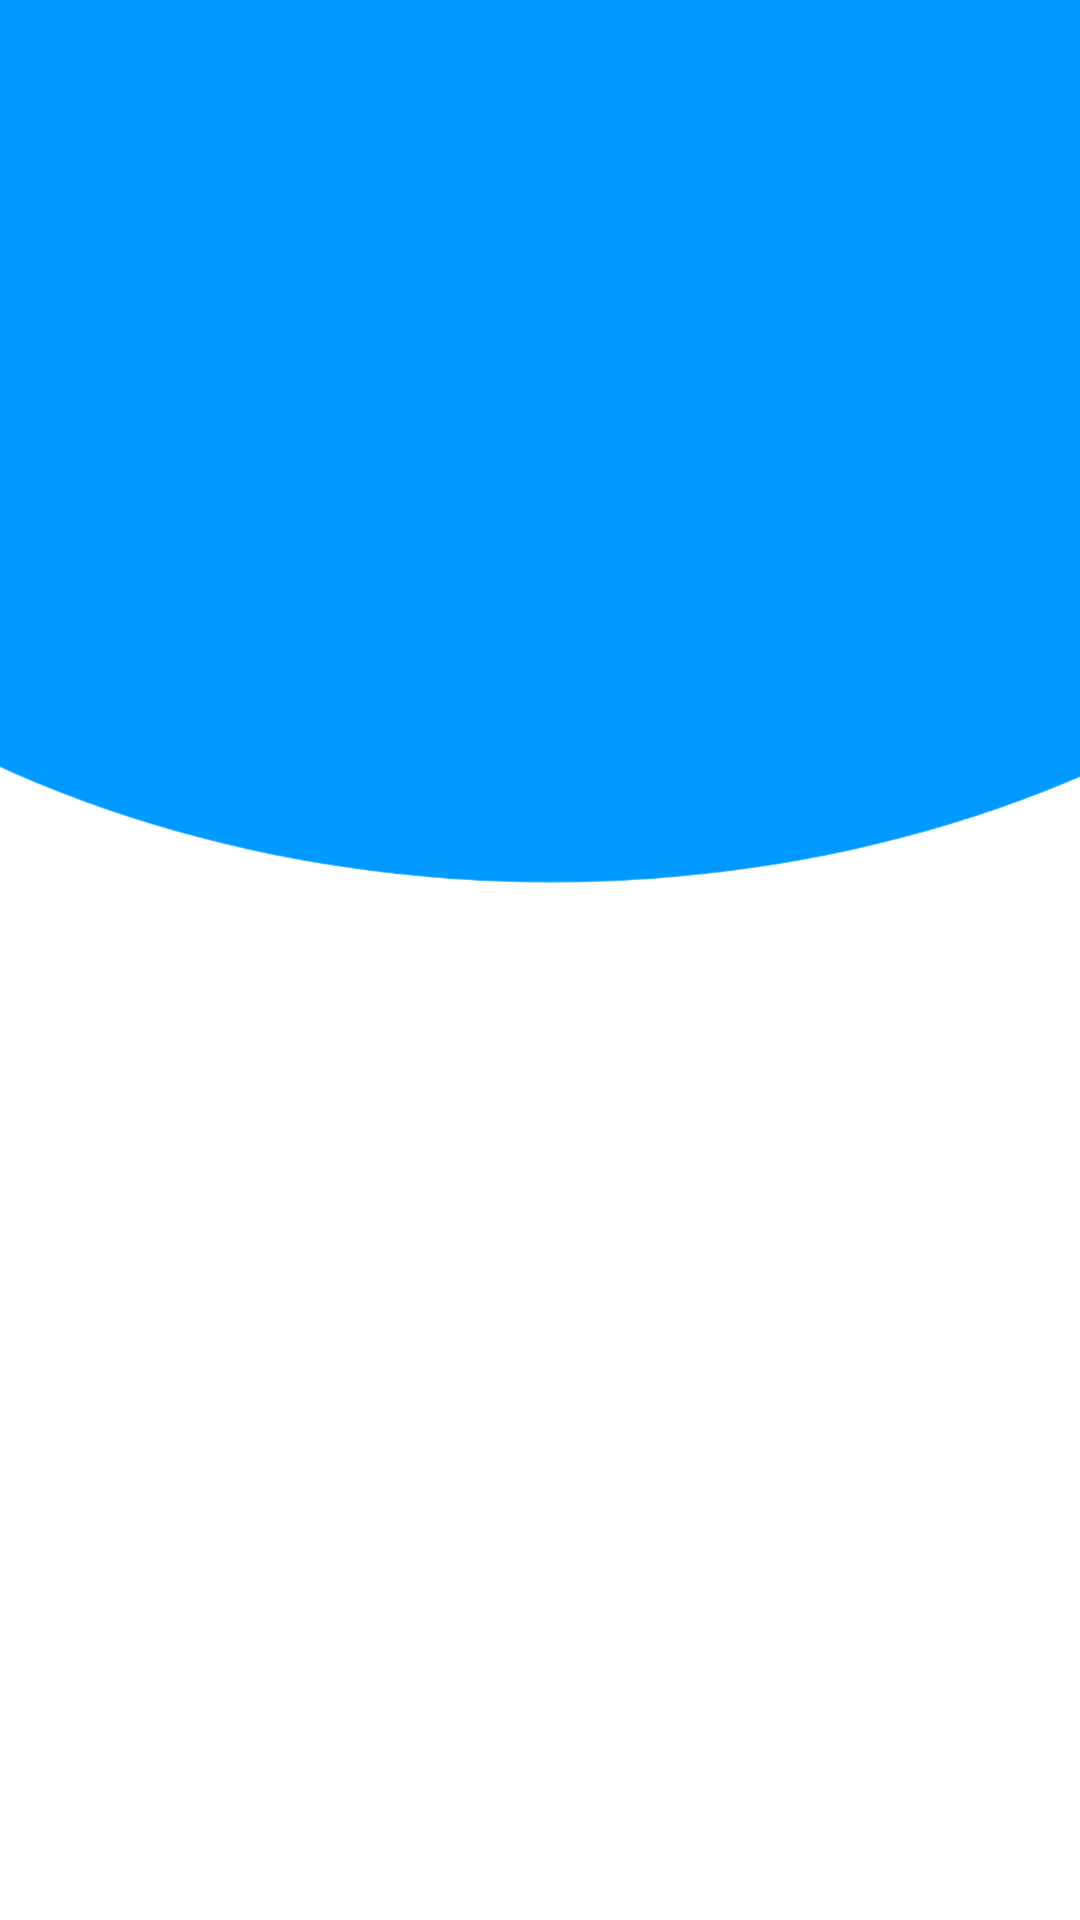
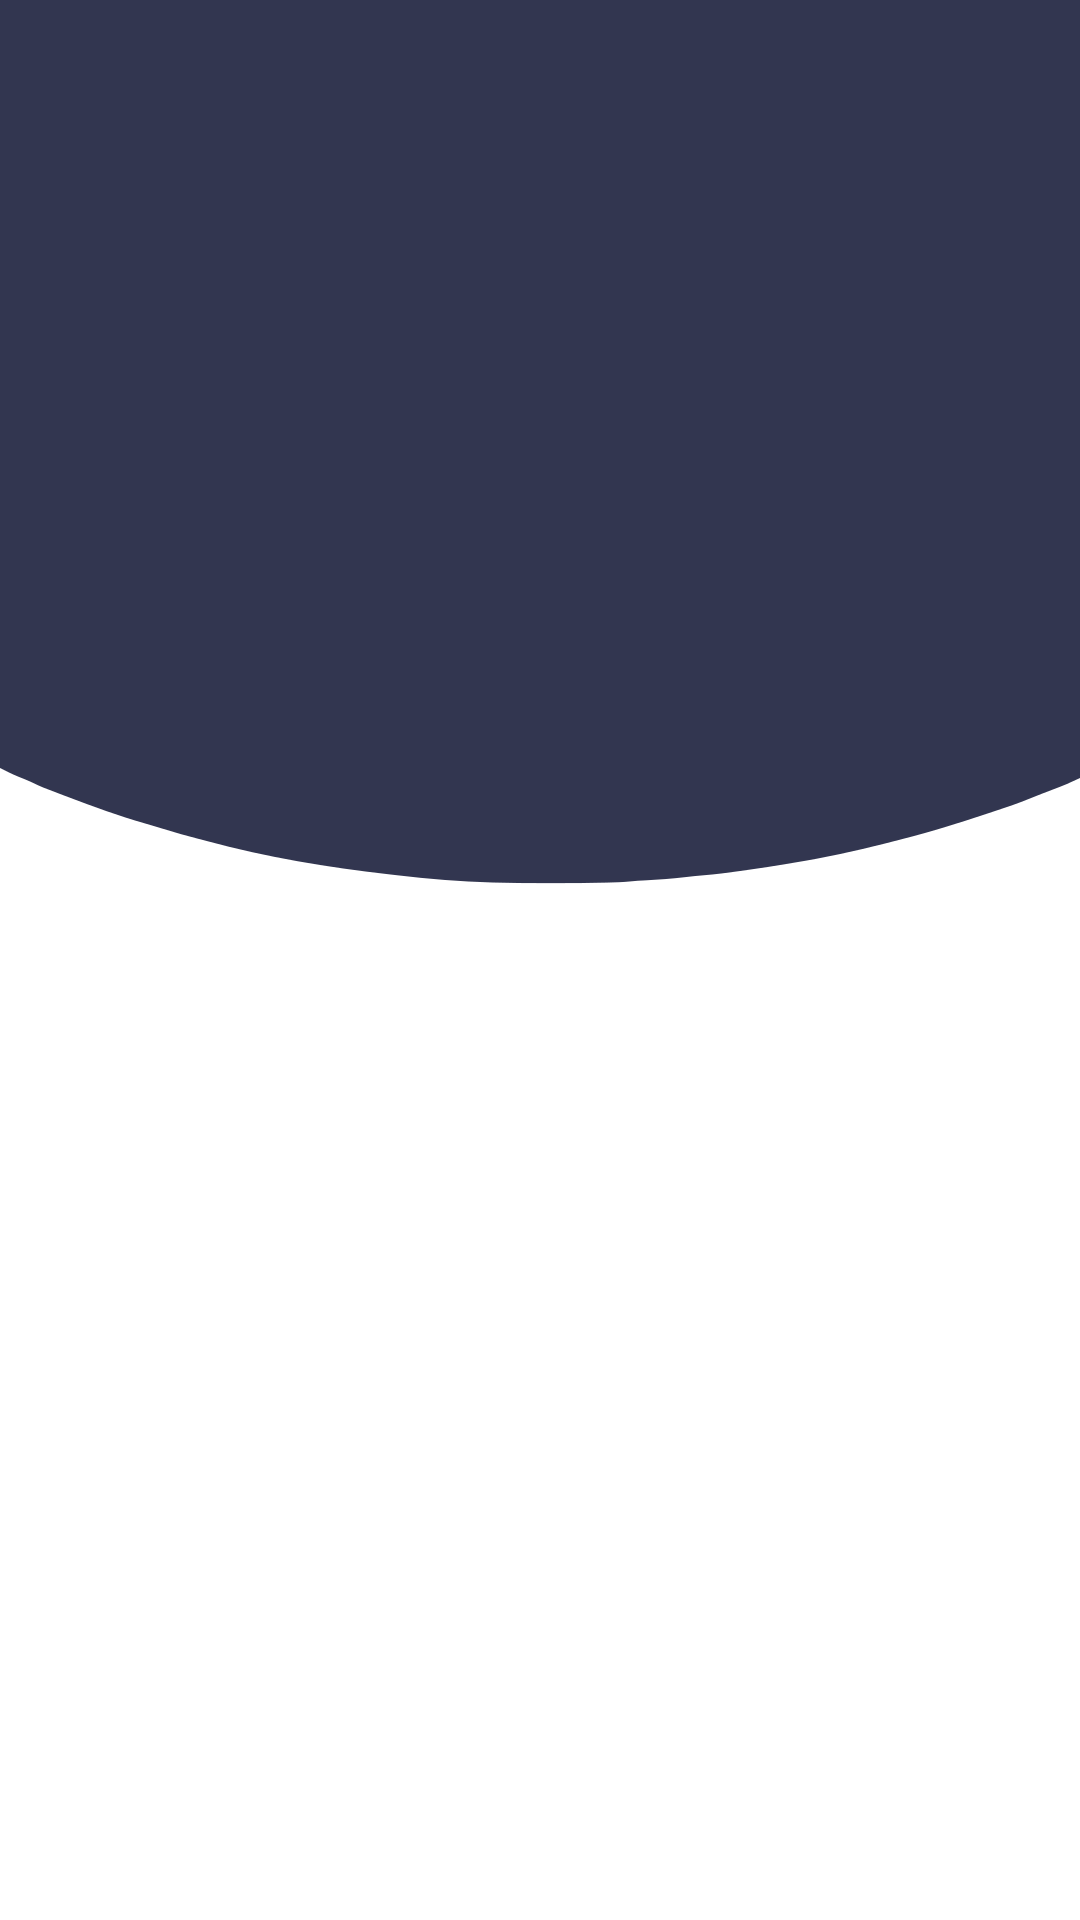
contact.tsx

diff --git a/src/screens/auth/SignUp.tsx b/src/screens/auth/SignUp.tsx
@@ -1,5 +1,5 @@
-import { StatusBar } from "expo-status-bar"
-import React, { useEffect, useState } from "react"
+import { StatusBar } from "expo-status-bar";
+import React, { useEffect, useState } from "react";
 import {
     View,
     Text,
@@ -10,70 +10,72 @@ import {
     Platform,
     ScrollView,
     GestureResponderEvent,
-} from "react-native"
+} from "react-native";
 import Animated, {
     FadeIn,
     FadeInDown,
     FadeInUp,
     FadeOut,
-} from "react-native-reanimated"
+} from "react-native-reanimated";
 
 // Navigation
-import { NativeStackScreenProps } from "@react-navigation/native-stack"
-import { RootStackParamList } from "../../navigation/Router"
+import { NativeStackScreenProps } from "@react-navigation/native-stack";
+import { RootStackParamList } from "../../navigation/Router";
 // types
-import { EmailData, SignUpInput } from "../../types"
+import { EmailData, SignUpInput } from "../../types";
 // import {Env} from "../../types/env"
 //functions
-import { sendEmail } from "../../functions"
+import { sendEmail } from "../../functions";
+// assets
+import { wavebg } from "../../assets";
 
-type SignUpProps = NativeStackScreenProps<RootStackParamList, "SignUp">
+type SignUpProps = NativeStackScreenProps<RootStackParamList, "SignUp">;
 
 // const service_id =process.env.EMAIL_JS_SERVICE_ID || Env.EMAIL_JS_SERVICE_ID
-const service_id = "service_18nvoaw"
-const template_id = "template_hrxbnbj"
-const user_id = "auihK9lT1-3yCjdUP"
-const accessToken = "Rd2BTbINaktS1Iux6JSwl"
+const service_id = "service_18nvoaw";
+const template_id = "template_hrxbnbj";
+const user_id = "auihK9lT1-3yCjdUP";
+const accessToken = "Rd2BTbINaktS1Iux6JSwl";
 
 const SignUp = ({ navigation }: SignUpProps) => {
-    const [username, setUserName] = useState<string>("")
-    const [email, setEmail] = useState<string>("")
-    const [password, setPassword] = useState<any>("")
+    const [username, setUserName] = useState<string>("");
+    const [email, setEmail] = useState<string>("");
+    const [password, setPassword] = useState<any>("");
 
     const [inputValues, setInputValues] = useState<SignUpInput>({
         username: "",
         email: "",
         password: "",
         verificationCode: "",
-    })
+    });
 
     // Random Code for verification.
-    const [verificationCode, setVerificationCode] = useState<string>("")
+    const [verificationCode, setVerificationCode] = useState<string>("");
 
     const generateVerificationCode = () => {
         const chars =
-            "ABCDEFGHIJKLMNOPQRSTUVWXYZabcdefghijklmnopqrstuvwxyz1234567890"
-        let result = ""
-        const charslength = chars.length
+            "ABCDEFGHIJKLMNOPQRSTUVWXYZabcdefghijklmnopqrstuvwxyz1234567890";
+        let result = "";
+        const charslength = chars.length;
         for (let i = 0; i < 6; i++) {
-            result += chars.charAt(Math.floor(Math.random() * charslength))
+            result += chars.charAt(Math.floor(Math.random() * charslength));
         }
 
-        setVerificationCode(result)
-    }
+        setVerificationCode(result);
+    };
 
     useEffect(() => {
-        generateVerificationCode()
-    }, [])
+        generateVerificationCode();
+    }, []);
 
     const handleSubmit = (e: GestureResponderEvent) => {
-        e.preventDefault()
+        e.preventDefault();
         setInputValues({
             username: username,
             email: email,
             password: password,
             verificationCode: verificationCode,
-        })
+        });
 
         const emailData: EmailData = {
             service_id: service_id,
@@ -85,25 +87,25 @@ const SignUp = ({ navigation }: SignUpProps) => {
                 user_email: email,
                 verificationCode: verificationCode,
             },
-        }
+        };
 
-        sendEmail(emailData)
+        sendEmail(emailData);
 
         navigation.navigate("EmailVerification", {
             username,
             email,
             password,
             verificationCode,
-        })
+        });
 
-        setUserName("")
-        setEmail("")
-        setPassword("")
-    }
+        setUserName("");
+        setEmail("");
+        setPassword("");
+    };
 
     useEffect(() => {
-        console.log("signup: ", inputValues)
-    }, [inputValues])
+        console.log("signup: ", inputValues);
+    }, [inputValues]);
 
     return (
         <KeyboardAvoidingView
@@ -115,7 +117,7 @@ const SignUp = ({ navigation }: SignUpProps) => {
             <ScrollView>
                 <Image
                     className="h-full w-full absolute bottom-10"
-                    source={require("../../assets/wave.png")}
+                    source={wavebg}
                 />
 
                 {/* Logo and extra icons */}
@@ -233,7 +235,7 @@ const SignUp = ({ navigation }: SignUpProps) => {
                 </View>
             </ScrollView>
         </KeyboardAvoidingView>
-    )
-}
+    );
+};
 
-export default SignUp
+export default SignUp;

diff --git a/src/screens/auth/Login.tsx b/src/screens/auth/Login.tsx
@@ -25,7 +25,8 @@ import { NativeStackScreenProps } from "@react-navigation/native-stack";
 import { RootStackParamList } from "../../navigation/Router";
 //type
 import { LoginInput } from "../../types";
-import { ww } from "../../assets";
+// assets
+import { wavebg, ww } from "../../assets";
 
 type LoginProps = NativeStackScreenProps<RootStackParamList, "Login">;
 
@@ -57,10 +58,7 @@ const Login = ({ navigation }: LoginProps) => {
             <ScrollView>
                 <StatusBar style="inverted" />
                 {/* Background Image */}
-                <Image
-                    className="h-full w-full absolute"
-                    source={require("../../assets/wave.svg")}
-                />
+                <Image className="h-full w-full absolute " source={wavebg} />
                 {/* Logo and extra icons */}
                 <View className="top-28 w-full items-center pb-6">
                     <Animated.Image
@@ -154,7 +152,7 @@ const Login = ({ navigation }: LoginProps) => {
                             <TouchableOpacity
                                 onPress={() => navigation.push("SignUp")}
                             >
-                                <Text className="text-sky-600">SignUp</Text>
+                                <Text className="text-sky-600">Sign Up</Text>
                             </TouchableOpacity>
                         </Animated.View>
                         <TouchableOpacity

diff --git a/src/screens/Feedback/Feedback.tsx b/src/screens/Feedback/Feedback.tsx
@@ -1,5 +1,5 @@
 import React, { useState } from "react";
-import { View, Text, TouchableOpacity } from "react-native";
+import { View, Text, TextInput, TouchableOpacity } from "react-native";
 import InputBox from "../../components/InputBox";
 
 const Feedback: React.FC = () => {
@@ -27,7 +27,7 @@ const Feedback: React.FC = () => {
 
             <InputBox placeholder="Enter your name" />
             <InputBox placeholder="Enter your email" />
-            <InputBox placeholder="Your feedback" />
+            <InputBox placeholder="Let us know your thoughts..." multiline />
 
             <View className="flex flex-row justify-between mt-5 mb-5">
                 {emojis.map((emoji, index) => (

diff --git a/src/components/InputBox.tsx b/src/components/InputBox.tsx
@@ -2,14 +2,17 @@ import { Text, TextInput, View } from "react-native";
 
 interface InputProp {
     placeholder: string;
+    multiline?: boolean;
 }
 
-const InputBox: React.FC<InputProp> = ({ placeholder }) => {
+const InputBox: React.FC<InputProp> = ({ placeholder, multiline }) => {
     return (
         <View className="bg-ww-black/5 rounded-2xl p-4 mb-3">
             <TextInput
                 placeholder={placeholder}
                 placeholderTextColor={"gray"}
+                multiline={multiline}
+                numberOfLines={multiline ? 7 : 1}
             />
         </View>
     );

diff --git a/src/assets/index.ts b/src/assets/index.ts
@@ -1,3 +1,4 @@
+// Logo
 import ww from './logo/ww.png'
 import ww_sm from './logo/ww_sm.png'
 import ww_str from './logo/ww_logo_str.png'
@@ -6,5 +7,9 @@ import ww_logo from './logo/ww_logo.png'
 import ww_logo_sm from './logo/ww_logo_sm.png'
 import ww_text from './logo/ww_text.png'
 import ww_text_sm from './logo/ww_text_sm.png'
+
+//images
 import contactIMG from './images/contactIMG.jpg'
-export {ww,ww_sm,ww_str_sm,ww_str,ww_logo,ww_logo_sm,ww_text_sm,ww_text,contactIMG}
+import wavebg from './wave.png'
+
+export {ww,ww_sm,ww_str_sm,ww_str,ww_logo,ww_logo_sm,ww_text_sm,ww_text,contactIMG,wavebg}

diff --git a/src/screens/Contact/Contact.tsx b/src/screens/Contact/Contact.tsx
@@ -35,7 +35,7 @@ const Detail: React.FC<DetailProp> = ({ header, text }) => {
                 <Text className="text-lg font-bold text-left text-gray-700">
                     {header}
                 </Text>
-                <Text className="text-lg font-normal text-left text-black">
+                <Text className="text-lg font-normal text-left text-ww-black">
                     {text}
                 </Text>
             </View>
